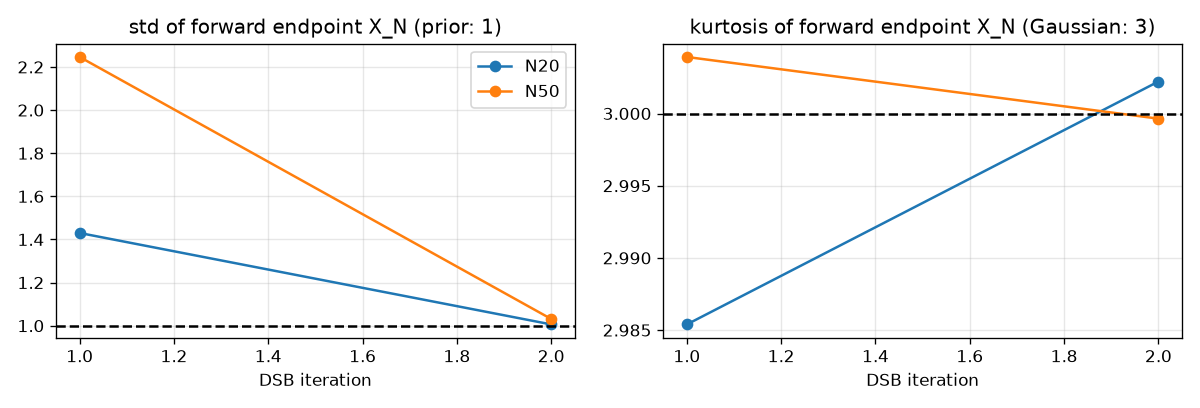
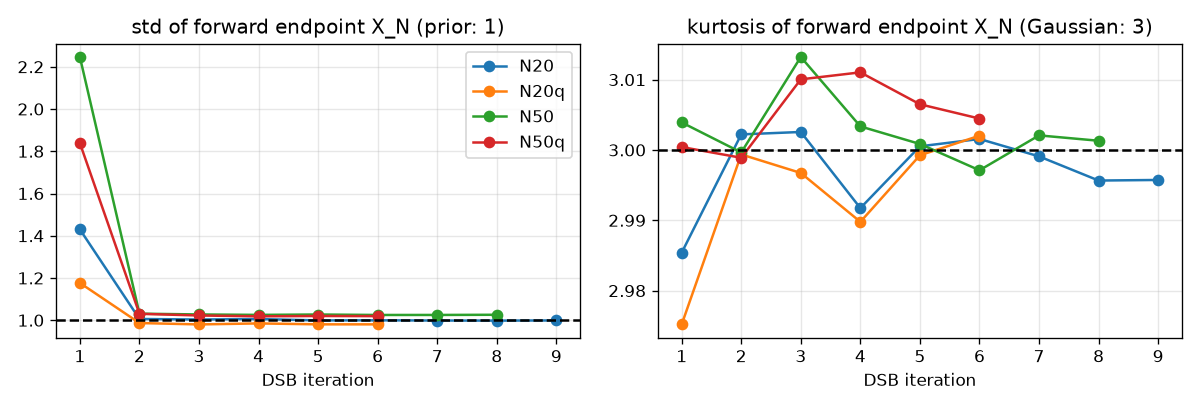
README: interim CIFAR-10 FID table; refreshed figures

diff --git a/README.md b/README.md
@@ -164,5 +164,16 @@ is designed for.
   (pytorch-fid Inception weights).  With 5 000 samples FID is biased upwards by roughly 10 points
   relative to the usual 50k/50k protocol, so values are comparable within this repository only.
 
-*(FID per DSB iteration, sample grids and the forward-endpoint diagnostics follow once the runs
-complete.)*
+**FID (5k samples) per DSB iteration** (runs in progress; the table is refreshed as evaluations arrive; iteration 1 is the classical SGM obtained from the first backward half-step):
+
+| DSB iteration | N50 | N20 | N50q | N20q |
+|---|---|---|---|---|
+| 1 | 188.5 | 309.0 | 137.3 | 271.0 |
+| 2 | 157.0 | 280.1 | 119.4 | 243.9 |
+| 3 | 155.7 | 262.2 | 124.2 | 233.3 |
+| 4 | 154.5 | 259.1 | 125.2 | 232.2 |
+| 5 | 153.8 | 243.1 | 116.0 | 215.6 |
+| 6 | 151.4 | 236.8 |  | 214.6 |
+| 7 | 153.1 | 228.8 |  |  |
+| 8 | 150.6 | 229.0 |  |  |
+
